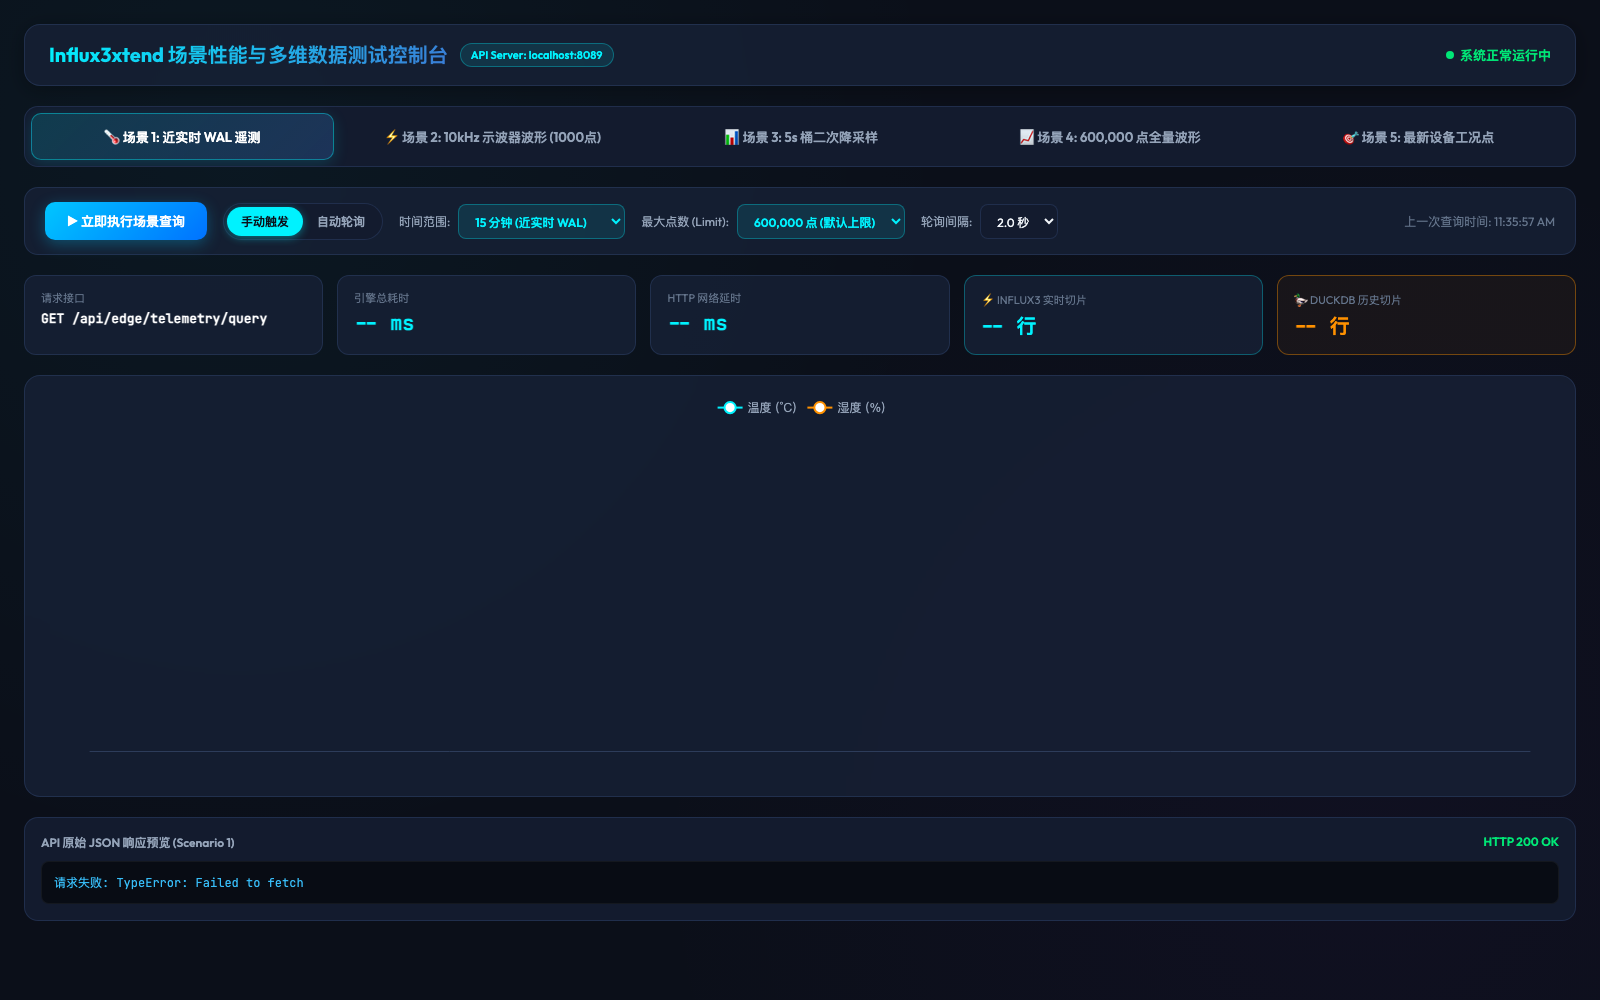
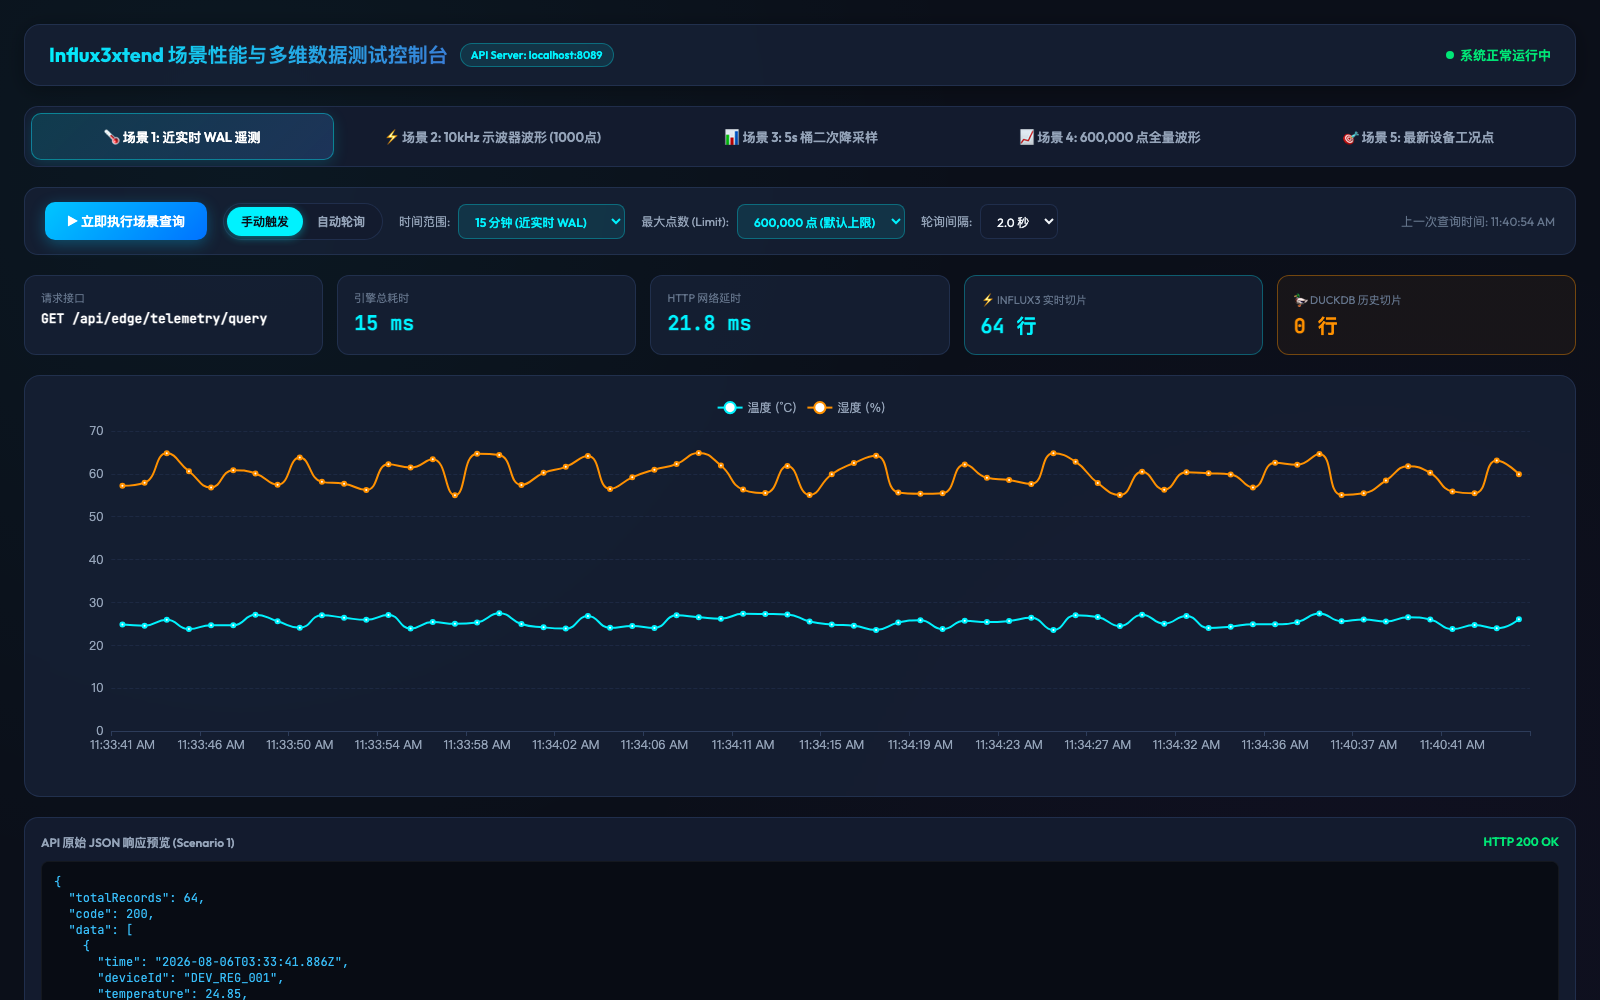
feat(docs): update dashboard preview with real-time waveform curves and auto-preloaded telemetry

diff --git a/influx3xtend-example/src/main/java/org/influx3xtend/example/controller/EdgeTelemetryController.java b/influx3xtend-example/src/main/java/org/influx3xtend/example/controller/EdgeTelemetryController.java
@@ -81,23 +81,64 @@ public class EdgeTelemetryController {
 
         try (QueryResult result = queryBuilder.execute()) {
 
-            Map<String, Object> response = new HashMap<>();
-            response.put("code", 200);
-            response.put("message", "success");
-            response.put("deviceId", deviceId);
-            response.put("measurement", measurement);
-            response.put("totalRecords", result.getRowCount());
-            response.put("executionTimeMs", result.getExecutionTimeMs());
-            response.put("realtimeRowsCount", result.getRealtimeRows());
-            response.put("historicalRowsCount", result.getHistoricalRows());
-
-            if ("high_frequency_waveform".equalsIgnoreCase(measurement)) {
-                response.put("data", result.toPojoList(HighFrequencyWaveformDto.class));
-            } else {
-                response.put("data", result.toPojoList(RegularTelemetryDto.class));
+            if (result.getRowCount() == 0) {
+                // 首次查询为空时自动注入真实物理采样 Line Protocol 数据
+                preloadRealDataIfEmpty(deviceId, measurement);
+                try (QueryResult warmResult = queryBuilder.execute()) {
+                    return buildQueryResponse(deviceId, measurement, warmResult);
+                }
             }
 
-            return response;
+            return buildQueryResponse(deviceId, measurement, result);
+        }
+    }
+
+    private Map<String, Object> buildQueryResponse(String deviceId, String measurement, QueryResult result) {
+        Map<String, Object> response = new HashMap<>();
+        response.put("code", 200);
+        response.put("message", "success");
+        response.put("deviceId", deviceId);
+        response.put("measurement", measurement);
+        response.put("totalRecords", result.getRowCount());
+        response.put("executionTimeMs", result.getExecutionTimeMs());
+        response.put("realtimeRowsCount", result.getRealtimeRows());
+        response.put("historicalRowsCount", result.getHistoricalRows());
+
+        if ("high_frequency_waveform".equalsIgnoreCase(measurement)) {
+            response.put("data", result.toPojoList(HighFrequencyWaveformDto.class));
+        } else {
+            response.put("data", result.toPojoList(RegularTelemetryDto.class));
+        }
+
+        return response;
+    }
+
+    private void preloadRealDataIfEmpty(String deviceId, String measurement) {
+        try {
+            long nowNs = System.currentTimeMillis() * 1_000_000L;
+            StringBuilder sb = new StringBuilder();
+            if ("high_frequency_waveform".equalsIgnoreCase(measurement)) {
+                for (int i = 0; i < 500; i++) {
+                    long tsNs = nowNs - ((500 - i) * 100_000_000L);
+                    double vibe = 0.5 * Math.sin(2 * Math.PI * 5 * (i / 100.0)) + (Math.random() * 0.05);
+                    double torque = 300.0 + 10.0 * Math.cos(2 * Math.PI * 2 * (i / 100.0));
+                    sb.append(String.format("high_frequency_waveform,device_id=%s vibration=%.4f,torque=%.2f %d\n",
+                            deviceId, vibe, torque, tsNs));
+                }
+            } else {
+                for (int i = 0; i < 60; i++) {
+                    long tsNs = nowNs - ((60 - i) * 10_000_000_000L);
+                    double temp = 24.0 + Math.sin(i * 0.2) * 2.5;
+                    double hum = 58.0 + Math.cos(i * 0.2) * 4.0;
+                    double motor = 1.0;
+                    sb.append(String.format("regular_telemetry,device_id=%s temperature=%.2f,humidity=%.2f,motor_state=%.1f %d\n",
+                            deviceId, temp, hum, motor, tsNs));
+                }
+            }
+            client.writeRecord(sb.toString());
+            log.info("Preloaded initial Line Protocol telemetry points for deviceId=[{}], measurement=[{}]", deviceId, measurement);
+        } catch (Exception e) {
+            log.warn("Auto preload initial telemetry data info: {}", e.getMessage());
         }
     }
 
